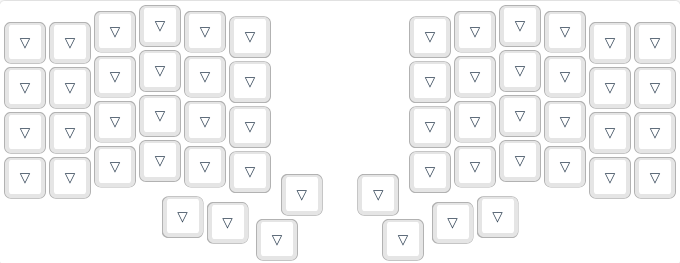
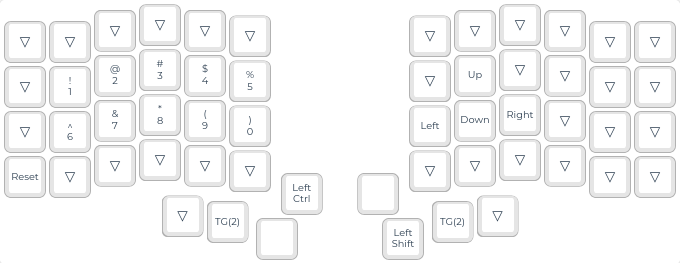
update layer_0

diff --git a/MarianaPicolo/keymap.c b/MarianaPicolo/keymap.c
@@ -32,11 +32,11 @@ const uint16_t PROGMEM keymaps[][MATRIX_ROWS][MATRIX_COLS] = {
         //├────────┼────────┼────────┼────────┼────────┼────────┤                          ├────────┼────────┼────────┼────────┼────────┼────────┤
            KC_TAB,  KC_Q,    KC_W,    KC_E,    KC_R,    KC_T,                               KC_Y,    KC_U,    KC_I,    KC_O,    KC_SCLN, KC_BSLS,
         //├────────┼────────┼────────┼────────┼────────┼────────┤                          ├────────┼────────┼────────┼────────┼────────┼────────┤
-           KC_LCTL, KC_A,    HOME_S,  HOME_D,  HOME_F,  LT(2, KC_G),                       LT(2, KC_H), HOME_J, HOME_K,  HOME_L,  KC_SLSH, KC_QUOT,
+           KC_LCTL, KC_A,    HOME_S,  HOME_D,  HOME_F,  LT(2, KC_G),                       LT(2, KC_H), HOME_J, HOME_K,  HOME_L, KC_SLSH, KC_QUOT,
         //├────────┼────────┼────────┼────────┼────────┼────────┼────────┐        ┌────────┼────────┼────────┼────────┼────────┼────────┼────────┤
            KC_LALT, KC_Z,    KC_X,    KC_C,    KC_V,    KC_B,   LT(1, KC_ENT),     KC_NO,   KC_N,    KC_M,    KC_P,    KC_COMM, KC_DOT,  KC_RSFT,
         //└────────┴────────┴────────┴───┬────┴───┬────┴───┬────┴───┬────┘        └───┬────┴───┬────┴───┬────┴───┬────┴────────┴────────┴────────┘
-                                          _______, KC_BSPC, KC_NO,                    LT(1, KC_SPC), MO(2), TG(2)
+                                          KC_LGUI, KC_BSPC, KC_NO,                    LT(1, KC_SPC), TG(2), MO(2)
                                       // └────────┴────────┴────────┘                 └────────┴────────┴────────┘
         ),
 
@@ -48,9 +48,9 @@ const uint16_t PROGMEM keymaps[][MATRIX_ROWS][MATRIX_COLS] = {
         //├────────┼────────┼────────┼────────┼────────┼────────┤                          ├────────┼────────┼────────┼────────┼────────┼────────┤
            KC_NO,   KC_NO,   KC_NO,   KC_NO,   KC_MINS, KC_LCBR,                            KC_RCBR, KC_PLUS, KC_NO,   KC_NO,   KC_NO,   KC_NO,
         //├────────┼────────┼────────┼────────┼────────┼────────┼────────┐        ┌────────┼────────┼────────┼────────┼────────┼────────┼────────┤
-           _______, KC_NO,   KC_NO,   KC_NO,   KC_UNDS, KC_LBRC, LT(1, KC_TAB),    KC_NO,  KC_RBRC, KC_PEQL, KC_NO,   KC_NO,   KC_NO,   KC_NO,
+           _______, KC_NO,   KC_NO,   KC_NO,   KC_UNDS, KC_LBRC, KC_TAB,           KC_NO,  KC_RBRC, KC_PEQL, KC_NO,   KC_NO,   KC_NO,   KC_NO,
         //└────────┴────────┴────────┴───┬────┴───┬────┴───┬────┴───┬────┘        └───┬────┴───┬────┴───┬────┴───┬────┴────────┴────────┴────────┘
-                                          KC_LGUI, _______, KC_NO,                   KC_RCTL, KC_CAPS, _______
+                                          _______, _______, KC_NO,                     KC_RCTL, KC_CAPS, _______
                                       // └────────┴────────┴────────┘                 └────────┴────────┴────────┘
         ),
 
